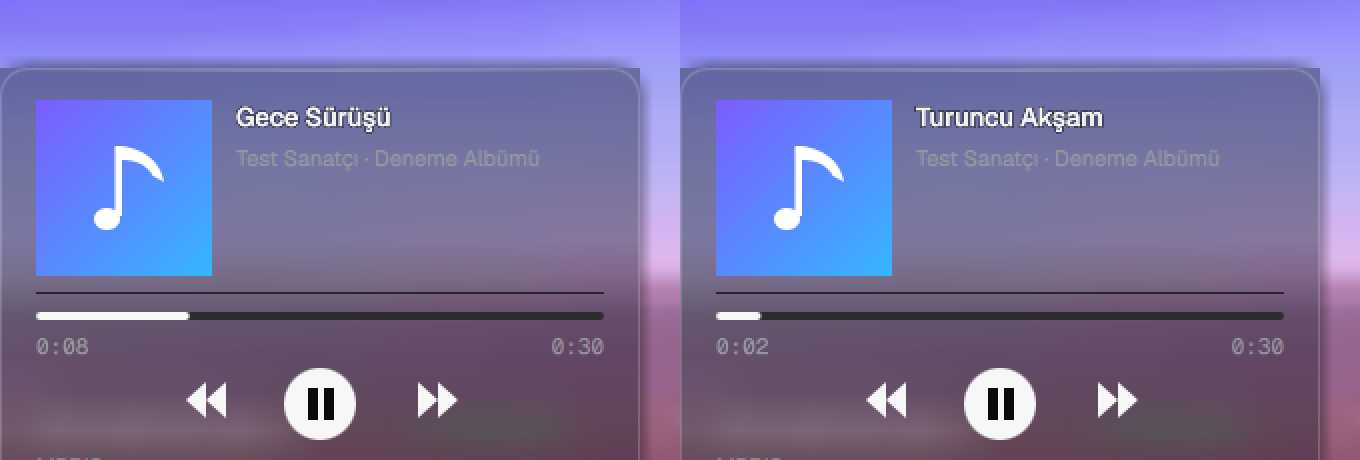
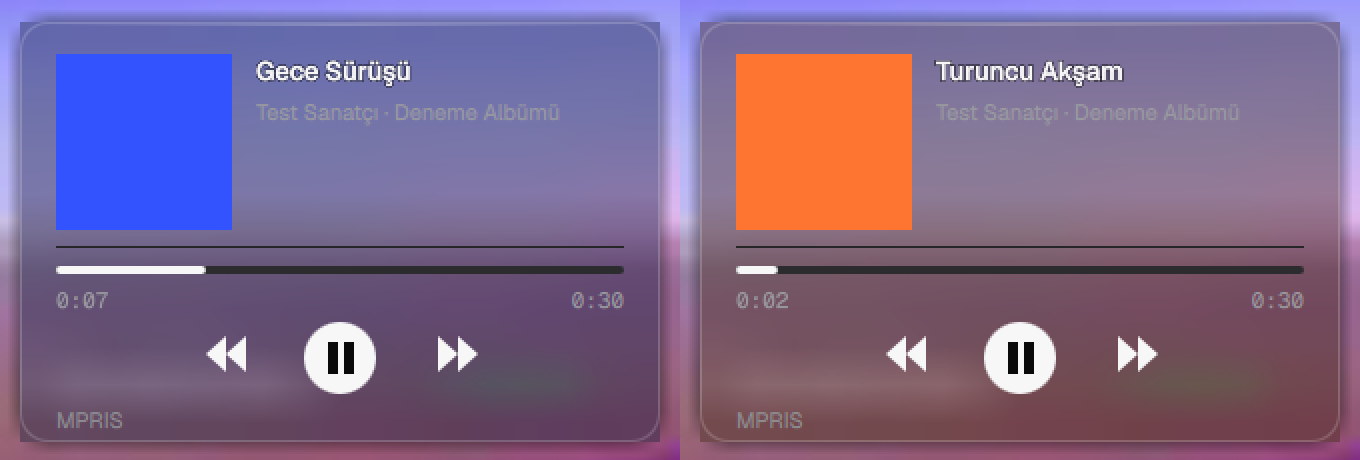
Dock: kapak/ton degisimi ayni surecte dogrulandi

diff --git a/dock/muzik.py b/dock/muzik.py
@@ -113,8 +113,13 @@ class MuzikModel(QObject):
     def _kapak_isle(self, url: str) -> tuple[str, str] | None:
         """Kapagi indir/coz, 176 px yuvarlak JPEG + renk JSON onbellege yaz."""
         self._islem_sayaci += 1
-        if os.environ.get("DOCK_KAPAK_LOG"):
-            print(f"kapak-islem {self._islem_sayaci} {url[:80]}", flush=True)
+        gunluk = os.environ.get("DOCK_KAPAK_LOG")
+        if gunluk:
+            try:
+                with open(gunluk, "a", encoding="utf-8") as dosya:
+                    dosya.write(f"kapak-islem {self._islem_sayaci} {url}\n")
+            except OSError:
+                pass
         if not url:
             return None
         ad = hashlib.sha1(url.encode()).hexdigest()

diff --git a/dock/ana.py b/dock/ana.py
@@ -469,9 +469,9 @@ class Dock(QWidget):
         ton = QColor(10, 10, 10)
         if renk is not None and renk.isValid():
             ton = QColor(
-                int(10 * 0.75 + renk.red() * 0.25),
-                int(10 * 0.75 + renk.green() * 0.25),
-                int(10 * 0.75 + renk.blue() * 0.25),
+                int(10 * 0.5 + renk.red() * 0.5),
+                int(10 * 0.5 + renk.green() * 0.5),
+                int(10 * 0.5 + renk.blue() * 0.5),
             )
         boya.fillRect(bulanik.rect(), QColor(ton.red(), ton.green(), ton.blue(), alfa))
         boya.end()
